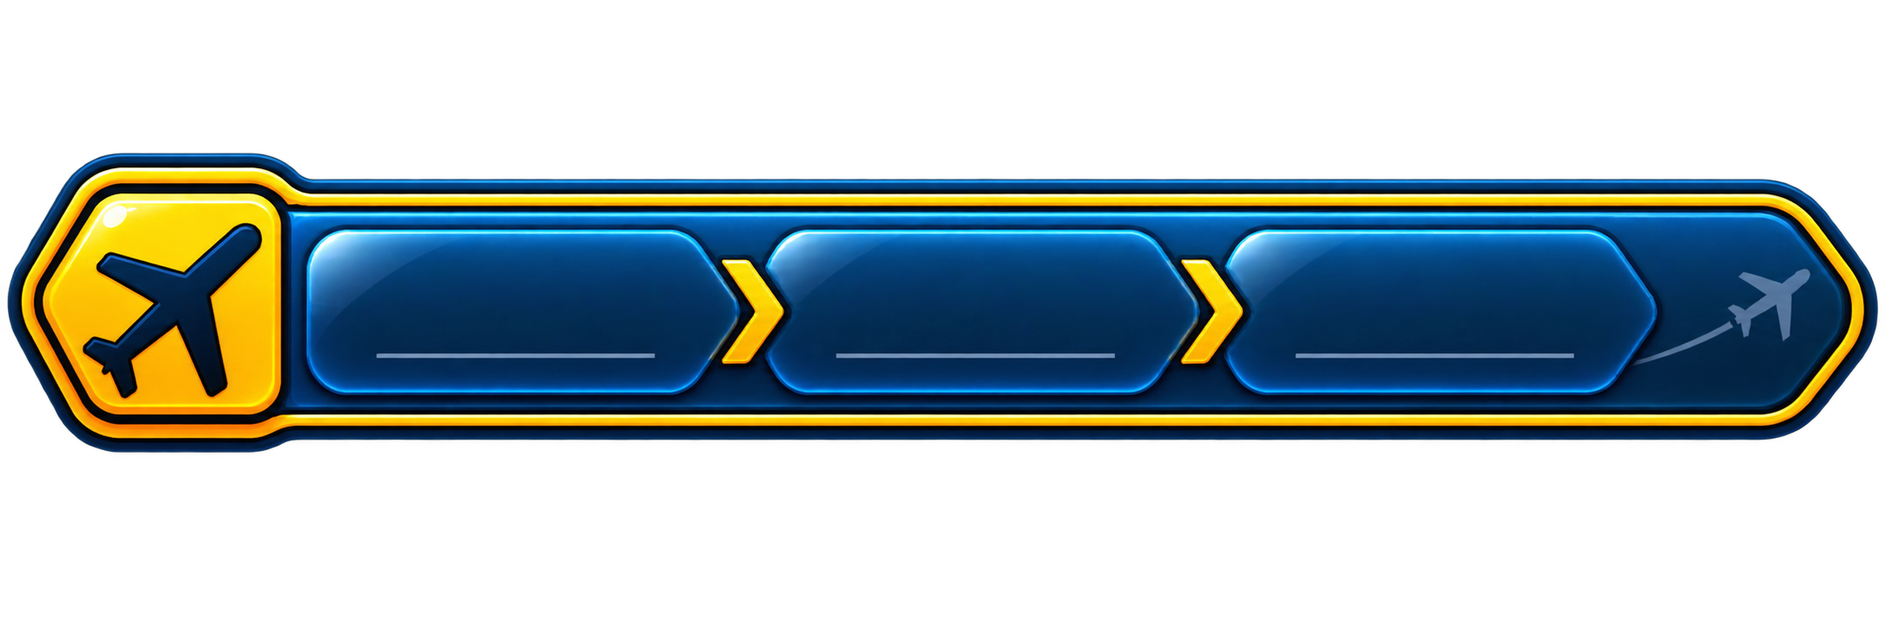
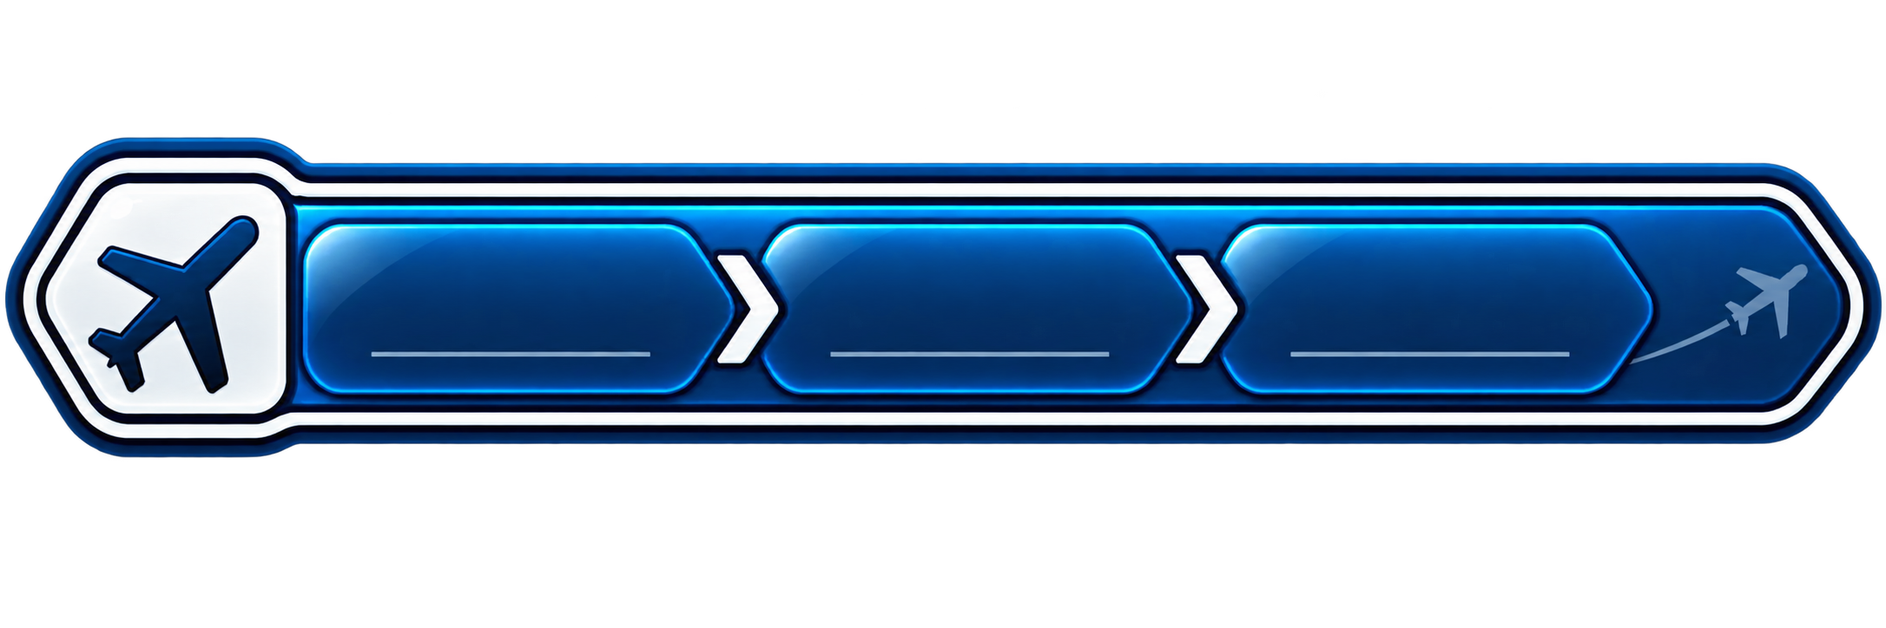
Update Airport Rush white UI and security trays

Changed region(s): [[0.0, 0.2127, 1.0, 0.7293]]

diff --git a/css/questions.css b/css/questions.css
@@ -8,15 +8,15 @@
 .questions-screen.is-transitioning .questions-backdrop, .questions-screen.is-transitioning .questions-world { opacity: 0; }
 .questions-task { position: absolute; z-index: 1; top: 126px; left: 50%; width: 1010px; transform: translateX(-50%); text-align: center; }
 .questions-task[hidden] { display: none; }
-.questions-instruction { width: max-content; margin: 0 auto 10px; padding: 8px 16px; border: 1px solid #f4c442; border-radius: 8px; background: #082a49ed; font-size: 19px; line-height: 1.2; font-weight: 600; }
-.questions-panel { position: relative; min-height: 146px; padding: 12px 40px 12px 105px; border: 2px solid #dfb752; border-radius: 14px; background: #082a49 url('../assets/images/question_panel.webp') center 47% / 135% 357% no-repeat; box-shadow: inset 0 2px 3px #fff6, 0 6px 12px #0005; }
-.questions-number { position: absolute; left: 20px; top: 50%; transform: translateY(-50%); color: #ffe075; font-size: 20px; font-weight: 700; font-variant-numeric: tabular-nums; }
+.questions-instruction { width: max-content; margin: 0 auto 10px; padding: 8px 16px; border: 1px solid #fff; border-radius: 8px; background: #082a49ed; font-size: 19px; line-height: 1.2; font-weight: 600; }
+.questions-panel { position: relative; min-height: 146px; padding: 12px 40px 12px 105px; border: 2px solid #fff; border-radius: 14px; background: #082a49 url('../assets/images/question_panel.webp') center 47% / 135% 357% no-repeat; box-shadow: inset 0 2px 3px #fff6, 0 6px 12px #0005; }
+.questions-number { position: absolute; left: 20px; top: 50%; transform: translateY(-50%); color: #fff; font-size: 20px; font-weight: 700; font-variant-numeric: tabular-nums; }
 .questions-writing-area { display: flex; flex-direction: column; align-items: center; gap: 7px; }
 .questions-situation { margin: 0; color: #e8edf3; font-size: 18px; line-height: 1.25; }
 .questions-situation:empty { display: none; }
 #questions-prompt { width: 100%; font-size: 24px; line-height: 1.25; }
-#questions-answer { width: 100%; height: 42px; padding: 5px 12px; border: 1px solid #e9bb47; border-radius: 5px; background: #061d34ed; color: #fff; font-size: 23px; text-align: center; }
-.questions-check, .gate-final-screen button { min-width: 170px; margin-top: 10px; padding: 10px 24px; border: 2px solid #f4c442; border-radius: 8px; color: #fff7df; background: linear-gradient(#28618a, #082a49 65%, #061d34); box-shadow: inset 0 2px 1px #ffffff65, 0 4px 8px #0005; font-size: 21px; font-weight: 700; }
+#questions-answer { width: 100%; height: 42px; padding: 5px 12px; border: 1px solid #fff; border-radius: 5px; background: #061d34ed; color: #fff; font-size: 23px; text-align: center; }
+.questions-check, .gate-final-screen button { min-width: 170px; margin-top: 10px; padding: 10px 24px; border: 2px solid #fff; border-radius: 8px; color: #fff; background: linear-gradient(#28618a, #082a49 65%, #061d34); box-shadow: inset 0 2px 1px #ffffff65, 0 4px 8px #0005; font-size: 21px; font-weight: 700; }
 .questions-check:not(:disabled):hover, .questions-card:not(:disabled):hover, .questions-choice:not(:disabled):hover { filter: brightness(1.2); }
 .questions-screen button:disabled { cursor: default; }
 .questions-feedback { min-height: 25px; margin: 8px 0 0; color: #baffd7; font-size: 21px; font-weight: 700; text-shadow: 0 1px 4px #061d34, 0 0 6px #061d34; }
@@ -24,12 +24,12 @@
 .questions-build, .questions-choices { width: 100%; }
 .questions-screen [hidden] { display: none !important; }
 .questions-slots, .questions-cards { display: flex; align-items: center; justify-content: center; gap: 8px; min-height: 38px; flex-wrap: wrap; }
-.questions-slots { padding: 4px 8px; border: 1px dashed #e9bb47; border-radius: 7px; background: #061d34d9; }
+.questions-slots { padding: 4px 8px; border: 1px dashed #fff; border-radius: 7px; background: #061d34d9; }
 .questions-cards { margin-top: 5px; }
-.questions-card { padding: 5px 12px; border: 1px solid #f4c442; border-radius: 6px; color: #fff; background: linear-gradient(#28618a, #082a49); font-size: 20px; box-shadow: 0 2px 3px #0006; }
+.questions-card { padding: 5px 12px; border: 1px solid #fff; border-radius: 6px; color: #fff; background: linear-gradient(#28618a, #082a49); font-size: 20px; box-shadow: 0 2px 3px #0006; }
 .questions-build-empty { color: #cbd5df; font-size: 17px; }
 .questions-choices { display: grid; gap: 5px; }
-.questions-choice { padding: 6px 12px; text-align: left; border: 1px solid #e9bb47; border-radius: 5px; color: #fff; background: #123c5c; font-size: 20px; }
+.questions-choice { padding: 6px 12px; text-align: left; border: 1px solid #fff; border-radius: 5px; color: #fff; background: #123c5c; font-size: 20px; }
 .is-correct .questions-slots { border-style: solid; border-color: #9affc6; box-shadow: 0 0 16px #72ffb366; }
 .is-correct .questions-card { border-color: #9affc6; transform: translateY(-1px); transition: transform 200ms; }
 /* The feet coordinates use full stage space, clipped below the permanent UI. */
@@ -65,13 +65,13 @@
 [data-zone="boarding"] .questions-panel { padding-left: 78px; padding-right: 24px; }
 [data-zone="boarding"] .questions-world { clip-path: none; }
 .questions-complete { position: absolute; z-index: 1; inset: 0; display: grid; place-items: center; text-align: center; background: #03142755; animation: questions-finale-shade 650ms ease both; }
-.questions-complete-content { position: relative; isolation: isolate; overflow: hidden; width: 900px; padding: 48px 40px; border: 2px solid #e9bb47b3; border-radius: 24px; background: linear-gradient(145deg, #123c5cc7, #061d34d1); box-shadow: inset 0 1px 0 #fff2, 0 18px 48px #03142766; }
-.questions-complete-content::before { content: ''; position: absolute; z-index: -1; width: 880px; height: 380px; left: 50%; top: 87px; transform: translate(-50%, -50%); background: radial-gradient(ellipse, #ffe28a9e 0%, #ffd15b70 20%, #ffc34d30 44%, transparent 72%); pointer-events: none; animation: questions-finale-shade 650ms ease both; }
-.questions-complete h1 { color: #ffe69b; font-size: 68px; margin: 0 0 26px; text-shadow: 0 3px 10px #031427, 0 0 28px #ffcd6380; animation: questions-finale-reveal 700ms 250ms ease both; }
+.questions-complete-content { position: relative; isolation: isolate; overflow: hidden; width: 900px; padding: 48px 40px; border: 2px solid #ffffffb3; border-radius: 24px; background: linear-gradient(145deg, #123c5cc7, #061d34d1); box-shadow: inset 0 1px 0 #fff2, 0 18px 48px #03142766; }
+.questions-complete-content::before { content: ''; position: absolute; z-index: -1; width: 880px; height: 380px; left: 50%; top: 87px; transform: translate(-50%, -50%); background: radial-gradient(ellipse, #ffffff9e 0%, #ffffff70 20%, #ffffff30 44%, transparent 72%); pointer-events: none; animation: questions-finale-shade 650ms ease both; }
+.questions-complete h1 { color: #fff; font-size: 68px; margin: 0 0 26px; text-shadow: 0 3px 10px #031427, 0 0 28px #ffffff80; animation: questions-finale-reveal 700ms 250ms ease both; }
 .questions-complete .questions-complete-flight { color: #eef7ff; font-size: 23px; line-height: 1.7; letter-spacing: 3px; margin: 0; text-shadow: 0 2px 6px #031427; animation: questions-finale-reveal 700ms 600ms ease both; }
-.questions-complete .questions-complete-story { color: #ffdc73; font-size: 32px; font-weight: 800; letter-spacing: 4px; margin: 28px 0 0; text-shadow: 0 2px 8px #031427; animation: questions-finale-reveal 700ms 950ms ease both; }
+.questions-complete .questions-complete-story { color: #fff; font-size: 32px; font-weight: 800; letter-spacing: 4px; margin: 28px 0 0; text-shadow: 0 2px 8px #031427; animation: questions-finale-reveal 700ms 950ms ease both; }
 .questions-complete-sparkles { position: absolute; inset: 0; pointer-events: none; animation: questions-finale-shade 900ms 1300ms both; }
-.questions-complete-sparkles i { position: absolute; width: 6px; height: 6px; border-radius: 50%; background: #fff0b5; box-shadow: 0 0 8px 3px #ffd36590; animation: questions-finale-twinkle 2800ms ease-in-out infinite alternate; }
+.questions-complete-sparkles i { position: absolute; width: 6px; height: 6px; border-radius: 50%; background: #fff; box-shadow: 0 0 8px 3px #ffffff90; animation: questions-finale-twinkle 2800ms ease-in-out infinite alternate; }
 .questions-complete-sparkles i:nth-child(1) { left: 12%; top: 15%; }
 .questions-complete-sparkles i:nth-child(2) { left: 27%; top: 2%; animation-delay: 400ms; width: 4px; height: 4px; }
 .questions-complete-sparkles i:nth-child(3) { left: 48%; top: 8%; animation-delay: 1100ms; }
@@ -332,7 +332,7 @@
 /* Automatic GAME 3 reward: movement comes from surroundings and the plane. */
 .gate-final-screen { position: absolute; inset: 0; overflow: hidden; color: #fff; background: linear-gradient(#6cb8e5, #e4f5fc 72%); }
 .gate-final-terminal { position: absolute; inset: -30px; background: url('../assets/images/airport_terminal.webp') center / cover; transition: transform 1.3s ease, opacity 700ms; }
-.gate-final-board { position: absolute; z-index: 1; top: 180px; left: 50%; transform: translateX(-50%); display: grid; gap: 16px; min-width: 600px; padding: 24px 42px; border: 3px solid #d7b14b; border-radius: 10px; background: #082a49f5; color: #ffe075; text-align: center; font-size: 25px; }
+.gate-final-board { position: absolute; z-index: 1; top: 180px; left: 50%; transform: translateX(-50%); display: grid; gap: 16px; min-width: 600px; padding: 24px 42px; border: 3px solid #fff; border-radius: 10px; background: #082a49f5; color: #fff; text-align: center; font-size: 25px; }
 .gate-final-board strong { font-size: 42px; }
 .gate-final-action { position: absolute; inset: 400px 0 0; overflow: hidden; }
 .gate-final-case { position: absolute; bottom: 15px; left: 45%; height: 240px; transition: transform 900ms, opacity 700ms; }
@@ -352,8 +352,8 @@
 [data-phase="taxi"] .gate-final-plane { opacity: 1; transform: translateX(110px); transition: transform 1.2s linear; }
 [data-phase="runway"] .gate-final-plane { opacity: 1; transform: translateX(250px); transition: transform 1.1s ease-in; }
 [data-phase="takeoff"] .gate-final-plane { opacity: 1; transform: translate(1050px, -260px) rotate(-12deg) scale(.6); transition: transform 2s ease-in, opacity 2s; }
-.gate-final-result { position: absolute; inset: 240px 250px auto; padding: 42px; text-align: center; border: 3px solid #e9bb47; border-radius: 18px; background: #082a49f5; }
-.gate-final-result h1 { color: #ffe075; font-size: 49px; margin: 0; }
+.gate-final-result { position: absolute; inset: 240px 250px auto; padding: 42px; text-align: center; border: 3px solid #fff; border-radius: 18px; background: #082a49f5; }
+.gate-final-result h1 { color: #fff; font-size: 49px; margin: 0; }
 .gate-final-result p { font-size: 30px; }
 .gate-final-board[hidden], .gate-final-result[hidden] { display: none; }
 @keyframes gate-final-travel { to { background-position: -200px 0; } }

diff --git a/css/styles.css b/css/styles.css
@@ -4,7 +4,7 @@ html, body { width: 100%; height: 100%; overflow: hidden; }
 body { margin: 0; }
 button, input { font: inherit; }
 button { cursor: pointer; }
-button:focus-visible, input:focus-visible { outline: 3px solid #cf550b; outline-offset: 4px; }
+button:focus-visible, input:focus-visible { outline: 3px solid #fff; outline-offset: 4px; }
 h1:focus { outline: none; }
 .app-shell { position: absolute; left: 50%; top: 50%; width: 1440px; height: 810px; transform: translate(-50%, -50%) scale(var(--game-scale, 0)); transform-origin: center; }
 .toolbar { position: absolute; top: 16px; left: 24px; right: 24px; height: 180px; z-index: 2; display: flex; align-items: center; justify-content: space-between; gap: 20px; pointer-events: none; }
@@ -14,7 +14,7 @@ h1:focus { outline: none; }
 .app-shell:has(.home-screen) .toolbar { top: -46px; }
 .screen-hud { display: flex; align-items: center; gap: 16px; min-width: 0; }
 .hud-actions { position: relative; display: flex; gap: 12px; margin-left: auto; pointer-events: auto; }
-.hud-button { width: 56px; height: 56px; display: grid; place-items: center; border: 2px solid #f4c442; border-radius: 8px; background: linear-gradient(#28618a, #082a49 60%, #061d34); color: #ffdb72; box-shadow: inset 0 2px 1px #ffffff65, 0 4px 6px #0006; }
+.hud-button { width: 56px; height: 56px; display: grid; place-items: center; border: 2px solid #fff; border-radius: 8px; background: linear-gradient(#28618a, #082a49 60%, #061d34); color: #fff; box-shadow: inset 0 2px 1px #ffffff65, 0 4px 6px #0006; }
 .hud-button:hover { filter: brightness(1.15); }
 .hud-button:active { box-shadow: inset 0 2px 4px #0008; }
 .hud-button svg { width: 29px; height: 29px; fill: none; stroke: currentColor; stroke-width: 2; stroke-linecap: round; stroke-linejoin: round; }
@@ -22,12 +22,12 @@ h1:focus { outline: none; }
 .app-shell:has(.home-screen) .hud-actions { position: absolute; top: 66px; right: 1px; gap: 16px; }
 .app-shell:has(.home-screen) .hud-button { width: 69px; height: 66px; border: 0; background: transparent; box-shadow: none; }
 .app-shell:has(.home-screen) .hud-button svg { visibility: hidden; }
-.audio-controls { position: absolute; right: 0; top: calc(100% + 12px); width: 290px; display: grid; gap: 16px; padding: 18px; border: 1px solid #e9bb47; border-radius: 8px; color: #fff; background: #082a49f5; box-shadow: 0 6px 18px #0006; }
+.audio-controls { position: absolute; right: 0; top: calc(100% + 12px); width: 290px; display: grid; gap: 16px; padding: 18px; border: 1px solid #fff; border-radius: 8px; color: #fff; background: #082a49f5; box-shadow: 0 6px 18px #0006; }
 .audio-controls[hidden] { display: none; }
 .audio-channel { display: grid; grid-template-columns: 48px 1fr 34px; align-items: center; gap: 10px; }
 .audio-channel label { font-size: 11px; font-weight: 700; }
-.audio-channel input { grid-column: 2; grid-row: 1; width: 100%; accent-color: #f4c442; }
-.mute-button { grid-column: 3; grid-row: 1; position: relative; width: 34px; height: 34px; border: 1px solid #dfb84e; border-radius: 4px; color: #ffdb72; background: #123c5c; font-size: 22px; }
+.audio-channel input { grid-column: 2; grid-row: 1; width: 100%; accent-color: #fff; }
+.mute-button { grid-column: 3; grid-row: 1; position: relative; width: 34px; height: 34px; border: 1px solid #fff; border-radius: 4px; color: #fff; background: #123c5c; font-size: 22px; }
 .mute-button[aria-pressed="true"]::after { content: ''; position: absolute; width: 25px; height: 2px; background: #ab350f; transform: rotate(-45deg); left: 4px; top: 15px; }
 input[type="range"] { width: 90px; height: 28px; margin: 0; accent-color: #21766b; cursor: pointer; }
 .stage { position: relative; width: 100%; aspect-ratio: 16 / 9; background: #edf2f4 url('../assets/images/airport_home.webp') center / 100% 100% no-repeat; isolation: isolate; }
@@ -37,7 +37,7 @@ input[type="range"] { width: 90px; height: 28px; margin: 0; accent-color: #21766
 .flight { font-size: 16px; color: #e9eded; }
 .departure-board strong { font-size: 36px; }
 .flight-details { display: flex; justify-content: space-between; gap: 12px; padding-top: 12px; border-top: 1px solid #536063; font-family: monospace; font-size: 21px; }
-.home-heading { position: absolute; left: 27%; top: 36%; width: 49%; height: 21%; display: flex; flex-direction: column; align-items: center; justify-content: center; background: #f3f7f8; border-bottom: 4px solid #eab546; padding: 12px; }
+.home-heading { position: absolute; left: 27%; top: 36%; width: 49%; height: 21%; display: flex; flex-direction: column; align-items: center; justify-content: center; background: #f3f7f8; border-bottom: 4px solid #fff; padding: 12px; }
 .home-heading h1 { margin: 0; font-size: 48px; font-style: italic; font-weight: 900; text-align: center; }
 .home-heading p { margin: 9px 0 0; font-size: 24px; text-align: center; }
 /* Transparent hit areas follow the cards in the current HOME artwork. */
@@ -71,25 +71,25 @@ input[type="range"] { width: 90px; height: 28px; margin: 0; accent-color: #21766
 .journey-hud li:nth-child(1) { left: 17%; }
 .journey-hud li:nth-child(2) { left: 41.5%; }
 .journey-hud li:nth-child(3) { left: 66%; }
-.journey-hud [aria-current] { color: #ffe075; font-weight: 800; text-shadow: 0 1px 2px #071c30; }
+.journey-hud [aria-current] { color: #fff; font-weight: 800; text-shadow: 0 1px 2px #071c30; }
 .checkin-question { position: absolute; left: 50%; top: 80px; width: 960px; aspect-ratio: 3 / 1; transform: translateX(-50%); color: #fff; }
-.checkin-instruction { position: absolute; left: 50%; bottom: calc(71% + 10px); width: max-content; transform: translateX(-50%); margin: 0; padding: 8px 16px; border: 1px solid #f4c442; border-radius: 8px; background: #082a49ed; text-align: center; color: #fff; font-size: 19px; line-height: 1.2; font-weight: 600; }
+.checkin-instruction { position: absolute; left: 50%; bottom: calc(71% + 10px); width: max-content; transform: translateX(-50%); margin: 0; padding: 8px 16px; border: 1px solid #fff; border-radius: 8px; background: #082a49ed; text-align: center; color: #fff; font-size: 19px; line-height: 1.2; font-weight: 600; }
 .question-panel-art { display: block; width: 100%; height: 100%; object-fit: contain; }
 /* Bounds of the blank writing area within the uncropped 2172 x 724 artwork. */
 #checkin-sentence { position: absolute; inset: 34% 13% 38%; display: grid; place-items: center; padding: 8px 68px; text-align: center; font-size: 27px; line-height: 1.25; margin: 0; overflow-wrap: anywhere; }
-.checkin-question-number { position: absolute; left: 14%; top: 34%; width: 5%; height: 28%; display: grid; place-items: center; color: #ffe075; font-size: 18px; font-weight: 700; font-variant-numeric: tabular-nums; }
+.checkin-question-number { position: absolute; left: 14%; top: 34%; width: 5%; height: 28%; display: grid; place-items: center; color: #fff; font-size: 18px; font-weight: 700; font-variant-numeric: tabular-nums; }
 .checkin-question-number[hidden] { display: none; }
 .checkin-feedback { position: absolute; top: 68%; left: 13%; width: 74%; min-height: 18px; margin: 0; text-align: center; font-size: 15px; font-weight: 700; }
 .checkin-feedback.is-wrong { color: #fff; text-shadow: 0 1px 3px #670b0b, 0 0 5px #670b0b; }
 .checkin-baggage { position: absolute; inset: 0; pointer-events: none; }
 /* Shown only after the final CHECK-IN answer. */
 .checkin-boarding-pass { position: absolute; left: 720px; top: 405px; width: 540px; height: auto; transform: translate(-50%, -50%); z-index: 3; pointer-events: none; }
-.journey-hud .is-collected { color: #ffe075; }
+.journey-hud .is-collected { color: #fff; }
 .journey-item-button { width: 100%; height: 100%; border: 0; padding: 0; background: transparent; color: inherit; font: inherit; pointer-events: auto; }
-.journey-item-viewer { position: fixed; inset: 0; width: min(760px, 90vw); max-height: 85vh; margin: auto; padding: 34px 22px 22px; border: 2px solid #f4c442; border-radius: 10px; background: #082a49; color: #ffdb72; box-shadow: 0 12px 40px #0008; }
+.journey-item-viewer { position: fixed; inset: 0; width: min(760px, 90vw); max-height: 85vh; margin: auto; padding: 34px 22px 22px; border: 2px solid #fff; border-radius: 10px; background: #082a49; color: #fff; box-shadow: 0 12px 40px #0008; }
 .journey-item-viewer::backdrop { background: #061d34b3; }
 .journey-item-viewer > img { display: block; width: 100%; max-height: 70vh; object-fit: contain; }
-.journey-item-close { position: absolute; top: 5px; right: 8px; width: 28px; height: 28px; border: 1px solid #f4c442; border-radius: 4px; background: #123c5c; color: #ffdb72; font-size: 23px; line-height: 1; }
+.journey-item-close { position: absolute; top: 5px; right: 8px; width: 28px; height: 28px; border: 1px solid #fff; border-radius: 4px; background: #123c5c; color: #fff; font-size: 23px; line-height: 1; }
 
 .suitcase-group { position: absolute; inset: 0; }
 .suitcase-answer { position: absolute; left: calc(640px + var(--slot) * 210px); top: calc(415px + var(--slot) * 20px); width: 170px; height: 204px; border: 0; padding: 0; background: transparent; pointer-events: auto; transform-origin: center bottom; animation: baggage-arrive 650ms ease-out both; }

diff --git a/css/security.css b/css/security.css
@@ -4,14 +4,14 @@
 .security-question { position: absolute; top: 80px; left: 50%; width: 960px; aspect-ratio: 3 / 1; transform: translateX(-50%); color: #fff; }
 .security-question-art { display: block; width: 100%; height: 100%; object-fit: contain; }
 #security-sentence { position: absolute; inset: 34% 13% 38%; display: grid; place-items: center; padding: 8px 68px; text-align: center; font-size: 27px; line-height: 1.25; margin: 0; overflow-wrap: anywhere; }
-.security-number { position: absolute; left: 14%; top: 34%; width: 5%; height: 28%; display: grid; place-items: center; color: #ffe075; font-size: 18px; font-weight: 700; font-variant-numeric: tabular-nums; }
+.security-number { position: absolute; left: 14%; top: 34%; width: 5%; height: 28%; display: grid; place-items: center; color: #fff; font-size: 18px; font-weight: 700; font-variant-numeric: tabular-nums; }
 .security-number[hidden] { display: none; }
-.security-instruction { position: absolute; left: 50%; bottom: calc(71% + 10px); width: max-content; transform: translateX(-50%); margin: 0; padding: 8px 16px; border: 1px solid #f4c442; border-radius: 8px; background: #082a49ed; text-align: center; color: #fff; font-size: 19px; line-height: 1.2; font-weight: 600; }
+.security-instruction { position: absolute; left: 50%; bottom: calc(71% + 10px); width: max-content; transform: translateX(-50%); margin: 0; padding: 8px 16px; border: 1px solid #fff; border-radius: 8px; background: #082a49ed; text-align: center; color: #fff; font-size: 19px; line-height: 1.2; font-weight: 600; }
 .security-options { position: absolute; inset: 0; pointer-events: none; }
 .security-object { position: absolute; left: calc(780px + var(--slot) * 200px); top: calc(430px + var(--slot) * 24px); width: 200px; height: 210px; border: 0; padding: 0; background: transparent; transform-origin: center bottom; pointer-events: auto; }
 .security-object > img { display: block; width: 100%; height: 100%; object-fit: contain; object-position: center bottom; filter: drop-shadow(4px 8px 4px #0006); }
-.security-object > span { position: absolute; top: 100%; left: -10px; width: 220px; min-height: 58px; display: grid; place-items: center; padding: 8px; border: 2px solid #eac04c; border-radius: 6px; color: #fff; background: #082a49f5; font-size: 19px; line-height: 1.15; text-align: center; }
-.security-object:not(:disabled):hover > img { filter: drop-shadow(0 0 6px #ffe075); }
+.security-object > span { position: absolute; top: 100%; left: -10px; width: 220px; min-height: 58px; display: grid; place-items: center; padding: 8px; border: 2px solid #fff; border-radius: 6px; color: #fff; background: #082a49f5; font-size: 19px; line-height: 1.15; text-align: center; }
+.security-object:not(:disabled):hover > img { filter: drop-shadow(0 0 6px #fff); }
 .security-object:disabled { cursor: default; }
 .security-object.is-selected > span { visibility: hidden; }
 .security-object.is-waiting { visibility: hidden; }
@@ -33,3 +33,12 @@
 .security-object.is-backpack > img { transform: scale(.85); transform-origin: center bottom; }
 
 .security-object > img[src="assets/images/suitcase.webp"], .security-object > img[src="assets/images/suitcase_red.webp"], .security-object > img[src="assets/images/suitcase_yellow.webp"], .security-object > img[src="assets/images/suitcase_pink.webp"] { transform: scale(1.15); transform-origin: center bottom; }
+
+/* Match visible tray width and belt baseline to security_tray.webp (alpha bounds). */
+.security-object > img[src="assets/images/security_tray_one.webp"] { transform: translate(0.056px, -0.505px) scale(0.992533); transform-origin: center bottom; }
+.security-object > img[src="assets/images/security_tray_two.webp"] { transform: translate(0.056px, -0.255px) scale(0.995965); transform-origin: center bottom; }
+.security-object > img[src="assets/images/security_tray_three.webp"] { transform: translate(0.508px, -0.560px) scale(1.000579); transform-origin: center bottom; }
+.security-object > img[src="assets/images/security_tray_four.webp"] { transform: translate(0.392px, -0.609px) scale(0.993675); transform-origin: center bottom; }
+.security-object > img[src="assets/images/security_tray_five.webp"] { transform: translate(0.000px, -0.613px) scale(0.993103); transform-origin: center bottom; }
+.security-object > img[src="assets/images/security_tray_six.webp"] { transform: translate(-0.055px, -1.279px) scale(0.976823); transform-origin: center bottom; }
+.security-object > img[src="assets/images/security_tray_seven.webp"] { transform: translate(0.220px, -1.165px) scale(0.977376); transform-origin: center bottom; }

diff --git a/js/security.js b/js/security.js
@@ -1,8 +1,9 @@
 (function (app) {
   'use strict';
-  const firstItems = ['suitcase_pink.webp', 'backpack_green.webp', 'duffel_purple.webp', 'backpack_brown.webp', 'duffel_black_white.webp'];
-  const baggageItems = ['suitcase.webp', 'duffel_purple.webp', 'suitcase_red.webp', 'suitcase_yellow.webp', 'duffel_black_white.webp', 'suitcase_pink.webp'];
-  const backpackItems = ['backpack.webp', 'backpack_green.webp', 'backpack_brown.webp'];
+  const firstItems = ['security_tray.webp', 'security_tray_one.webp', 'security_tray_two.webp', 'security_tray_three.webp', 'security_tray_four.webp', 'security_tray_five.webp', 'security_tray_six.webp', 'security_tray_seven.webp'];
+  // Preserve the existing six-item / three-item rotation after the first cycle.
+  const baggageItems = [firstItems[1], firstItems[2], firstItems[3], firstItems[4], firstItems[5], firstItems[6]];
+  const backpackItems = [firstItems[7], firstItems[2], firstItems[4]];
   // Balanced visual slots by question: 0 = left, 1 = center, 2 = right.
   const correctPositions = [1, 0, 2, 1, 2, 0, 0, 1, 2, 0, 2, 1, 2, 1, 0, 2, 0, 1, 1, 0];
 
@@ -94,7 +95,13 @@
         const j = Math.floor(Math.random() * (i + 1));
         [order[i], order[j]] = [order[j], order[i]];
       }
-      const assets = order.map(() => nextItem());
+      const assets = [];
+      order.forEach(() => {
+        let asset = nextItem();
+        // Advance the existing cycle past trays already shown in this question.
+        while (assets.includes(asset)) asset = nextItem();
+        assets.push(asset);
+      });
       const duffelSlot = assets.findIndex(asset => asset.startsWith('duffel_'));
       const targetSlot = correctPositions[index];
       // Allocate answers before pairing them with images, accounting for the
@@ -108,7 +115,7 @@
       items.forEach(({ answerIndex, asset }, slot) => {
         const button = document.createElement('button');
         button.type = 'button';
-        button.className = 'security-object' + (asset.startsWith('duffel_') ? ' is-duffel' : backpackItems.includes(asset) ? ' is-backpack' : '');
+        button.className = 'security-object';
         button.dataset.answer = answerIndex;
         button.dataset.slot = slot;
         button.style.setProperty('--slot', slot);

diff --git a/js/app.js b/js/app.js
@@ -32,7 +32,7 @@
   fitViewport();
   // Use the same literal URLs as the scenes; the Pages build versions these too.
   const sharedImages = [
-    'assets/images/question_panel.webp', 'assets/images/journey_hud.webp',
+    'assets/images/question_panel.webp', 'assets/images/journey_hud.webp?v=51fb4c60a311',
     'assets/images/heart.webp'
   ];
   const firstBaggage = [
@@ -41,7 +41,7 @@
   ];
   const sceneImages = {
     checkin: ['assets/images/airport_checkin.webp?v=1e3a3443dc14', 'assets/images/checkin_hud.webp', ...sharedImages, 'assets/images/answer_label.webp', ...firstBaggage],
-    security: ['assets/images/airport_security.webp', 'assets/images/security_hud.webp', ...sharedImages, ...firstBaggage, 'assets/images/boarding_pass.webp', 'assets/images/security_tray.webp'],
+    security: ['assets/images/airport_security.webp', 'assets/images/security_hud.webp', ...sharedImages, 'assets/images/boarding_pass.webp', 'assets/images/security_tray.webp', 'assets/images/security_tray_one.webp', 'assets/images/security_tray_two.webp'],
     questions: [
       'assets/images/airport_terminal.webp', 'assets/images/gate_hu.webp',
       ...sharedImages, 'assets/images/traveler_still.webp',
@@ -57,7 +57,7 @@
   ];
   const laterImages = {
     checkin: laterBaggage,
-    security: laterBaggage,
+    security: ['assets/images/security_tray_three.webp', 'assets/images/security_tray_four.webp', 'assets/images/security_tray_five.webp', 'assets/images/security_tray_six.webp', 'assets/images/security_tray_seven.webp'],
     questions: [
       'assets/images/airport_exit.webp', 'assets/images/traveler_still_forward.webp',
       'assets/images/traveler_walking_forward.gif', 'assets/images/airport_shuttle.webp',

diff --git a/js/ui.js b/js/ui.js
@@ -6,7 +6,7 @@
   app.ui = {
     journeyMarkup(current) {
       const labels = ['BOARDING PASS', 'SECURITY', 'GATE B24'];
-      return `<aside class="journey-hud" aria-label="Journey"><img src="assets/images/journey_hud.webp" alt=""><ol>${labels.map((label, index) => `<li${index === current ? ' aria-current="step"' : ''}${index < current ? ' class="is-collected"' : ''}>${index === 0 && current > 0 ? app.ui.journeyItemMarkup('boardingPass', label) : label}</li>`).join('')}</ol></aside>`;
+      return `<aside class="journey-hud" aria-label="Journey"><img src="assets/images/journey_hud.webp?v=51fb4c60a311" alt=""><ol>${labels.map((label, index) => `<li${index === current ? ' aria-current="step"' : ''}${index < current ? ' class="is-collected"' : ''}>${index === 0 && current > 0 ? app.ui.journeyItemMarkup('boardingPass', label) : label}</li>`).join('')}</ol></aside>`;
     },
     journeyItemMarkup(id, label) {
       return `<button type="button" class="journey-item-button" data-journey-item="${id}" aria-label="View collected ${label}">${label}</button>`;
